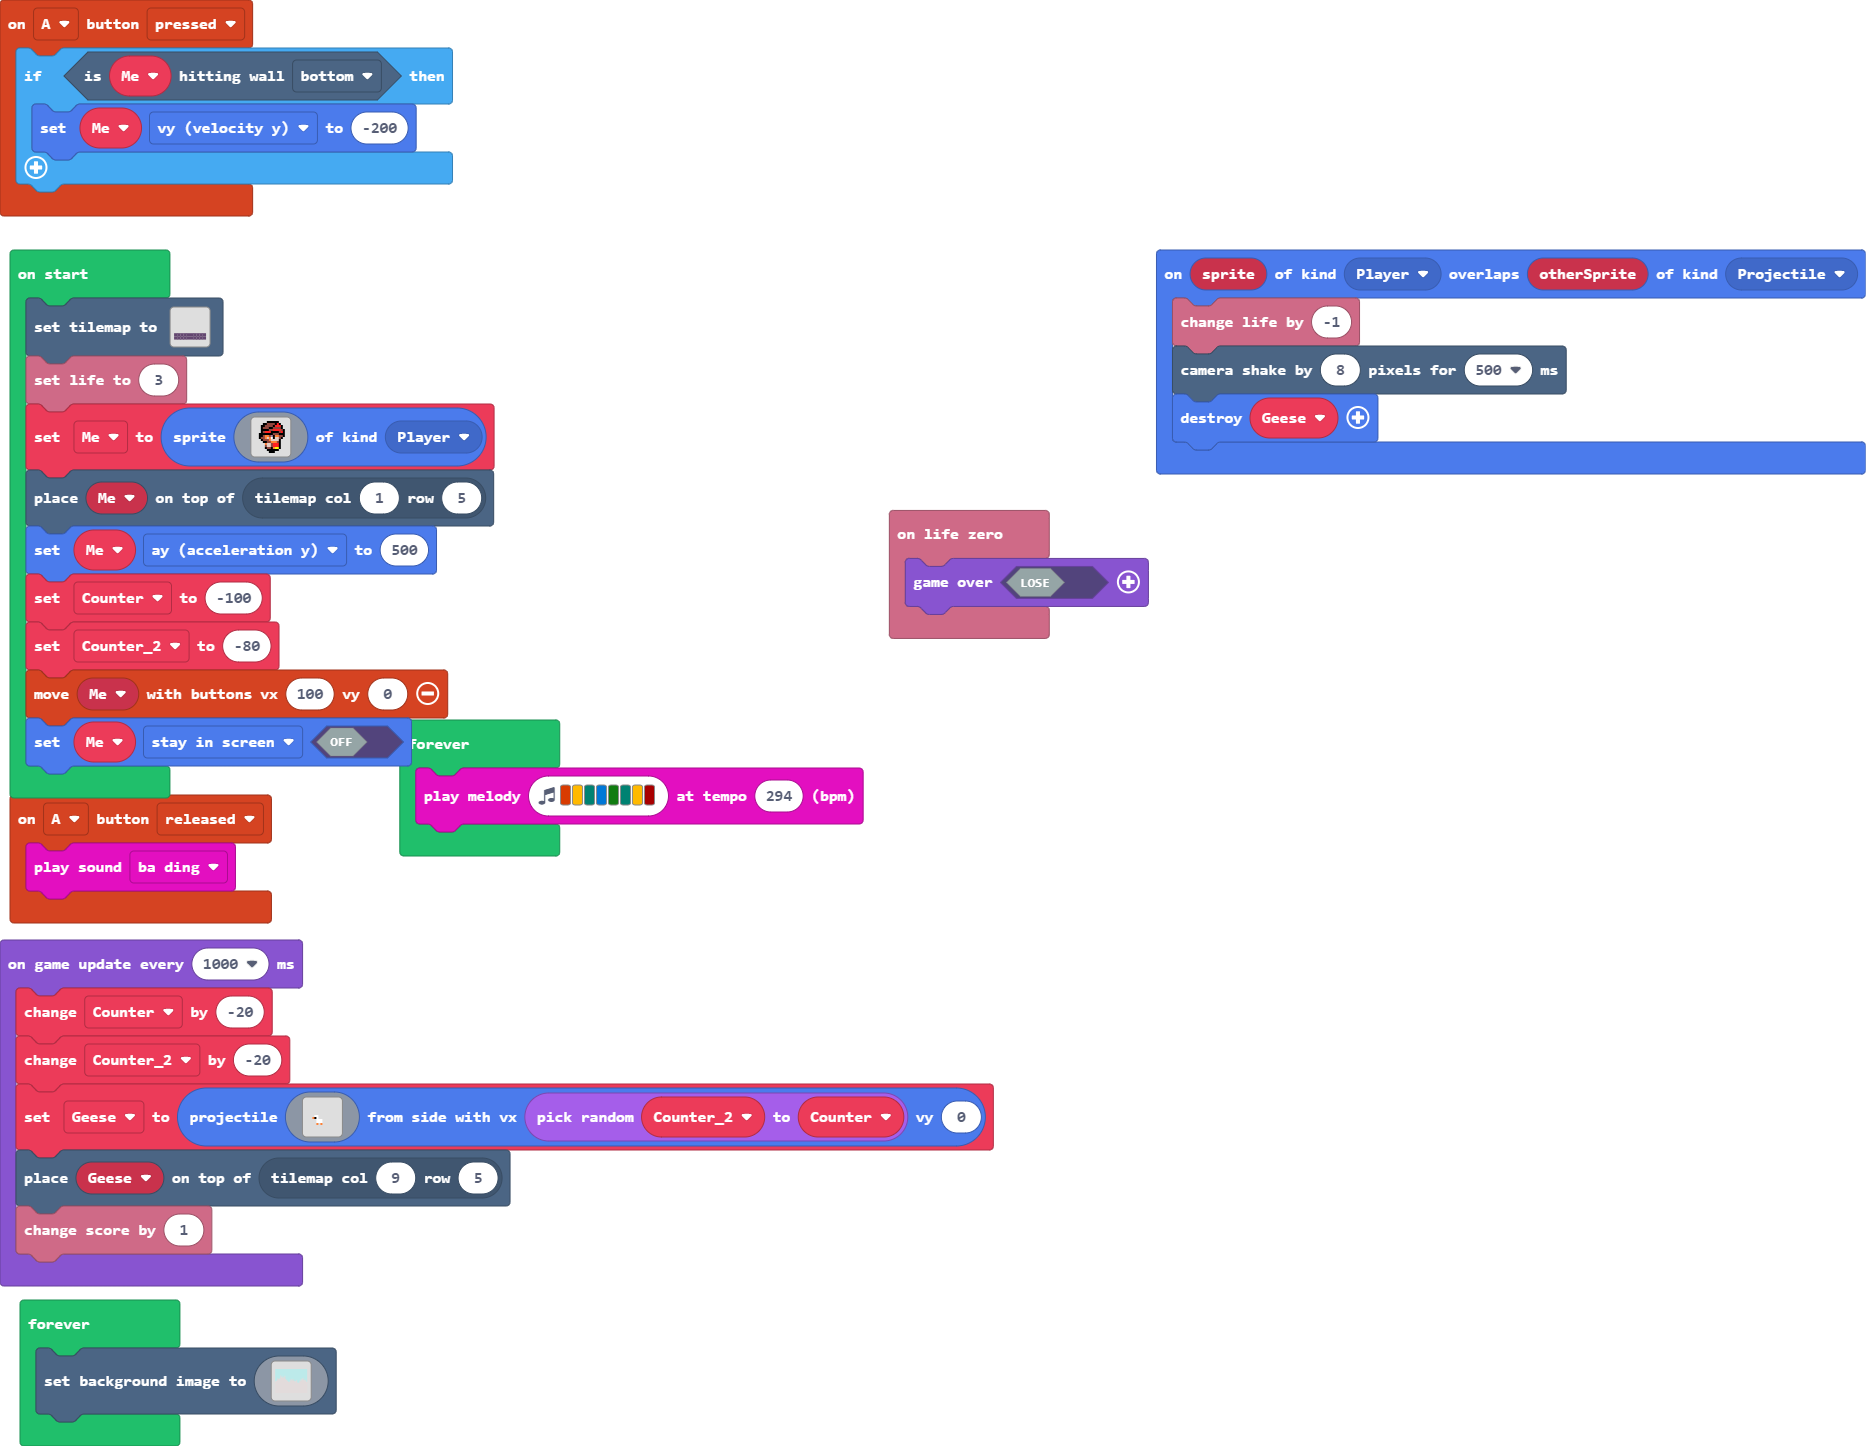
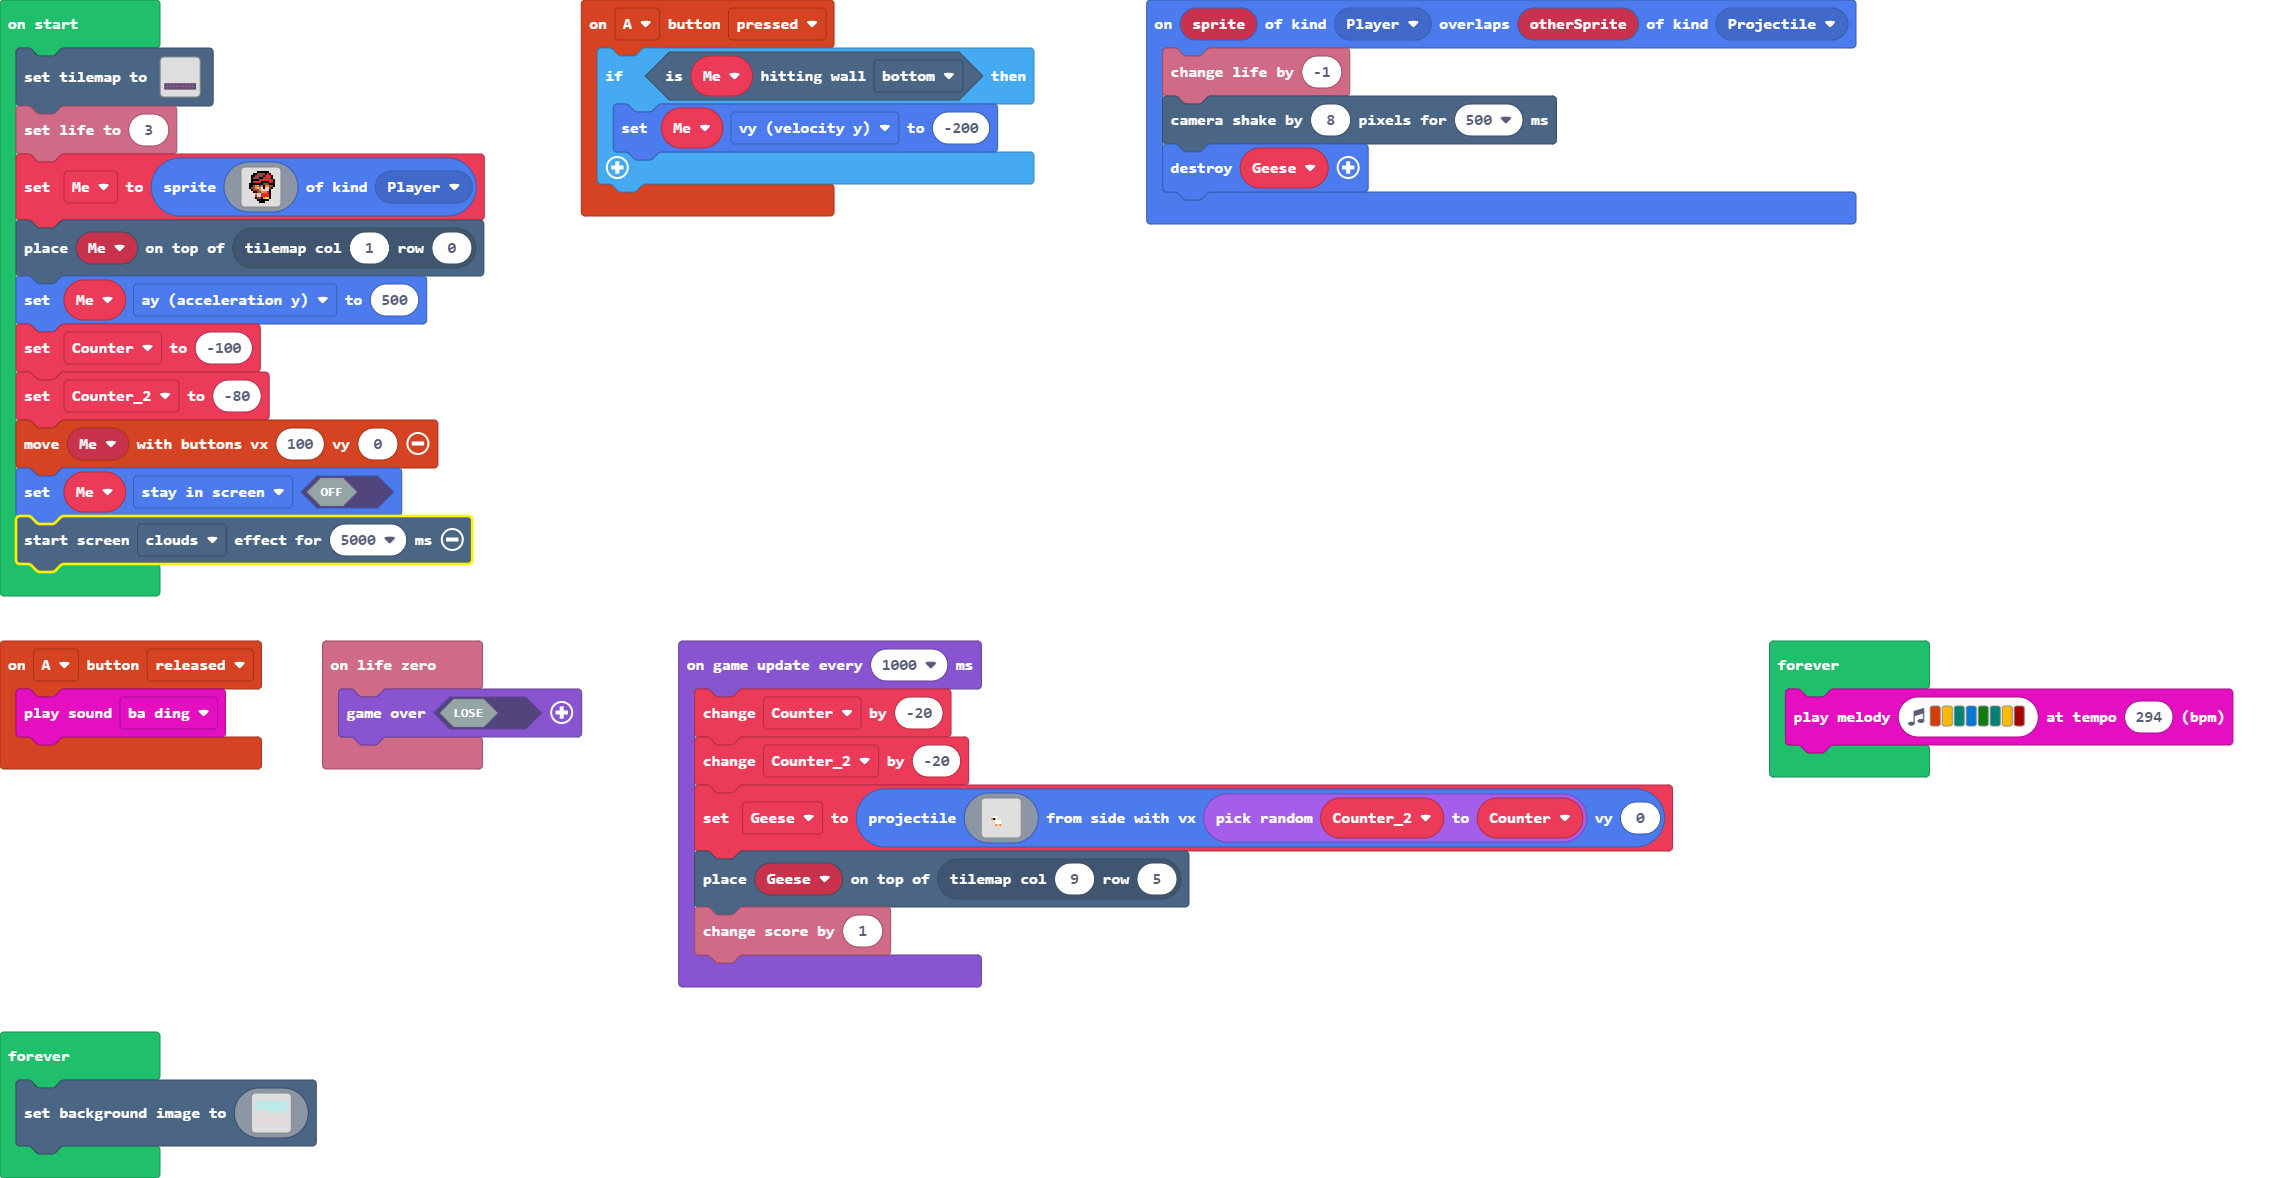
Update main.blocks, main.ts

diff --git a/main.ts b/main.ts
@@ -45,12 +45,13 @@ Me = sprites.create(img`
     . . . . . . f f f f f f . . . . 
     . . . . . . . f f f . . . . . . 
     `, SpriteKind.Player)
-tiles.placeOnTile(Me, tiles.getTileLocation(1, 5))
+tiles.placeOnTile(Me, tiles.getTileLocation(1, 0))
 Me.ay = 500
 let Counter = -100
 let Counter_2 = -80
 controller.moveSprite(Me, 100, 0)
 Me.setFlag(SpriteFlag.StayInScreen, false)
+effects.clouds.startScreenEffect(5000)
 game.onUpdateInterval(1000, function () {
     Counter += -20
     Counter_2 += -20
